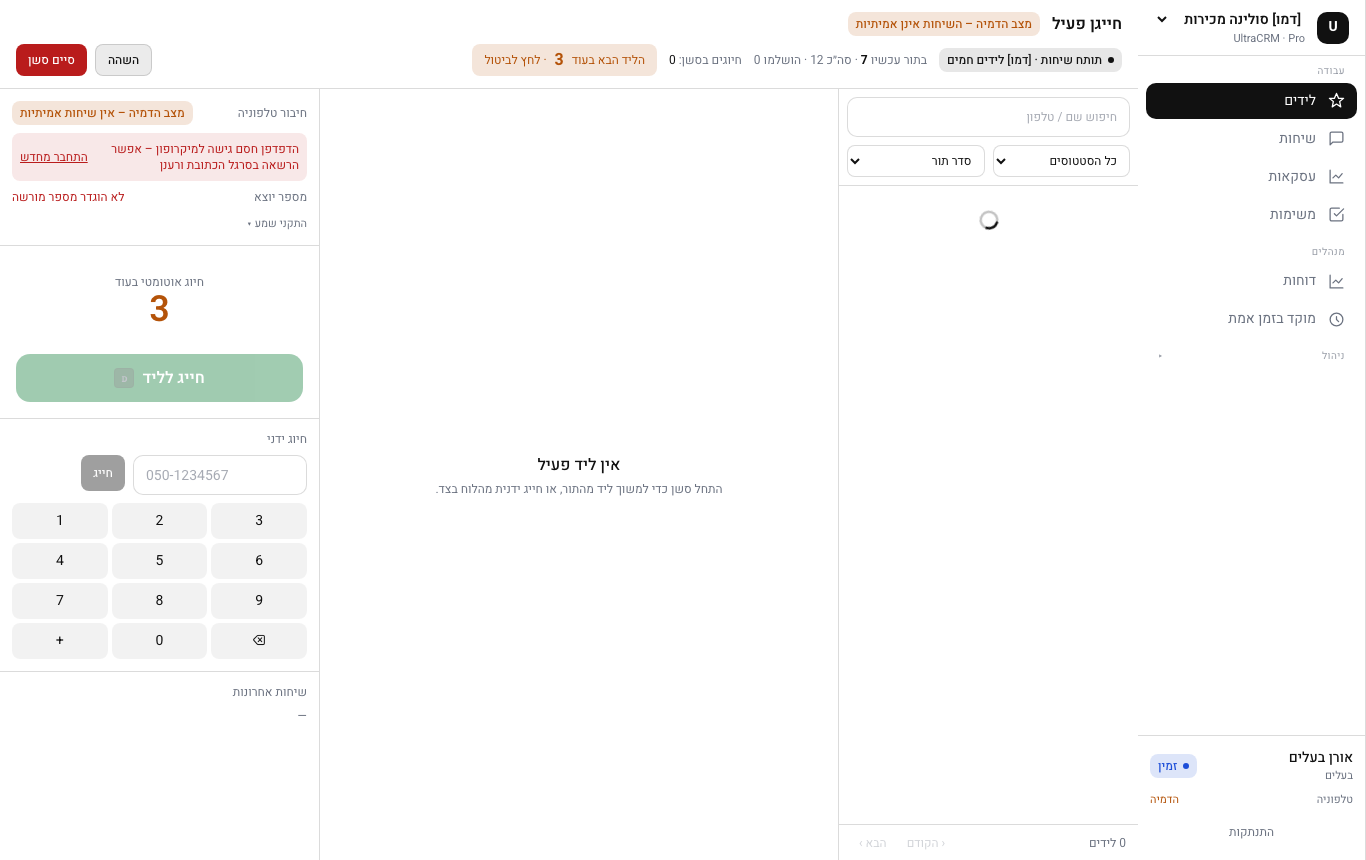
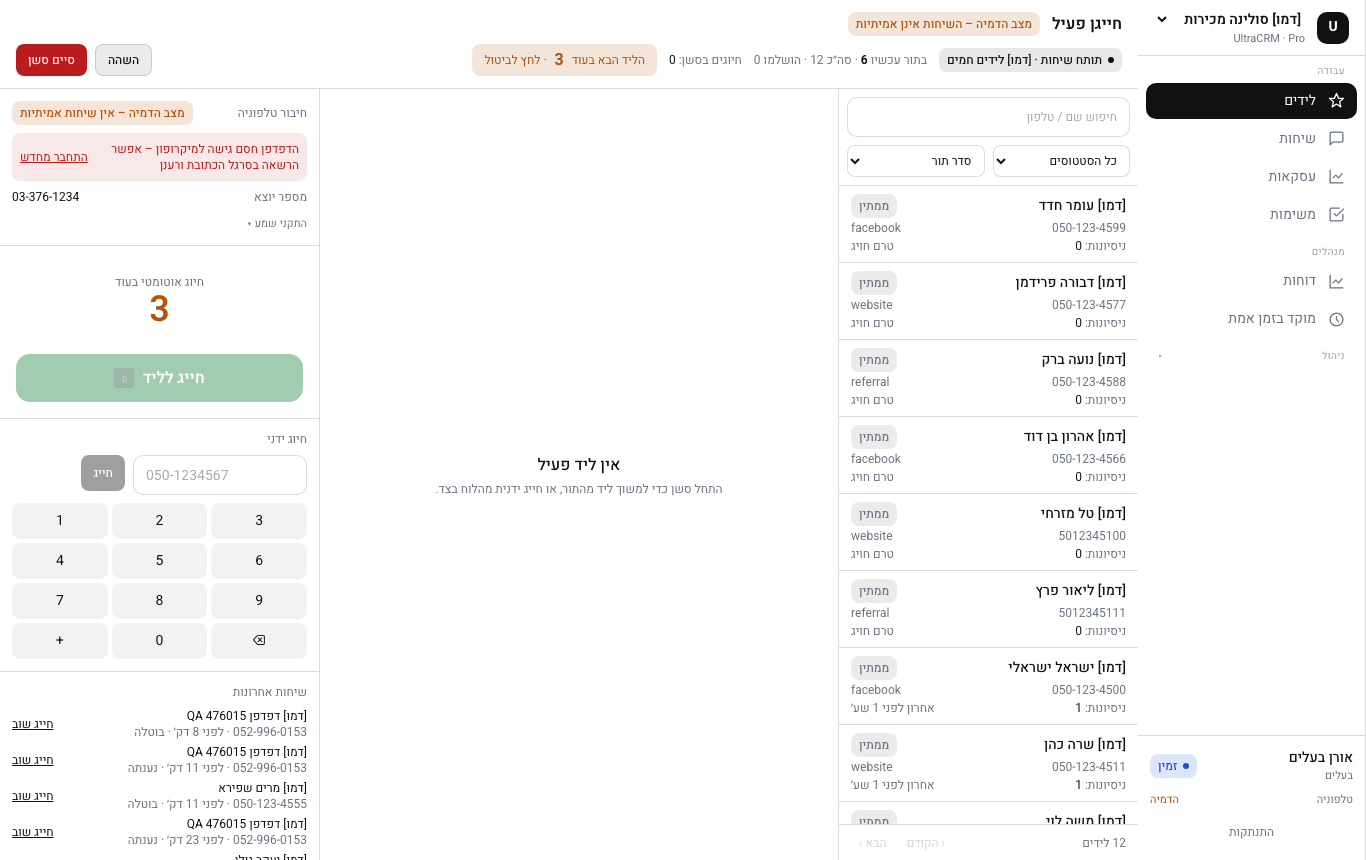
fix(workspace): keep the workspace mounted while the session summary is open (modal blocked the next call)

diff --git a/src/app/(app)/leads/page.tsx b/src/app/(app)/leads/page.tsx
@@ -30,9 +30,11 @@ function LeadsWorkspace() {
   const me = useMe();
   const router = useRouter();
   const params = useSearchParams();
-  const { dial, state } = useDialer();
+  const { dial, state, sessionSummary } = useDialer();
   const session = state?.session;
-  const dialerLive = Boolean((session && session.status !== "ended") || state?.activeCall || state?.wrapUpCall);
+  // Keep the workspace mounted while the end-of-session summary is open – otherwise the modal would reappear
+  // over the next call and block it.
+  const dialerLive = Boolean((session && session.status !== "ended") || state?.activeCall || state?.wrapUpCall || sessionSummary);
   const [data, setData] = useState<{ items: Lead[]; total: number; byStatus: Record<string, number> } | null>(null);
   const [filter, setFilter] = useState({ status: params.get("status") ?? "", q: params.get("q") ?? "", ownerUserId: params.get("mine") === "1" ? "me" : (params.get("ownerUserId") ?? "") });
   const [page, setPage] = useState(1);
